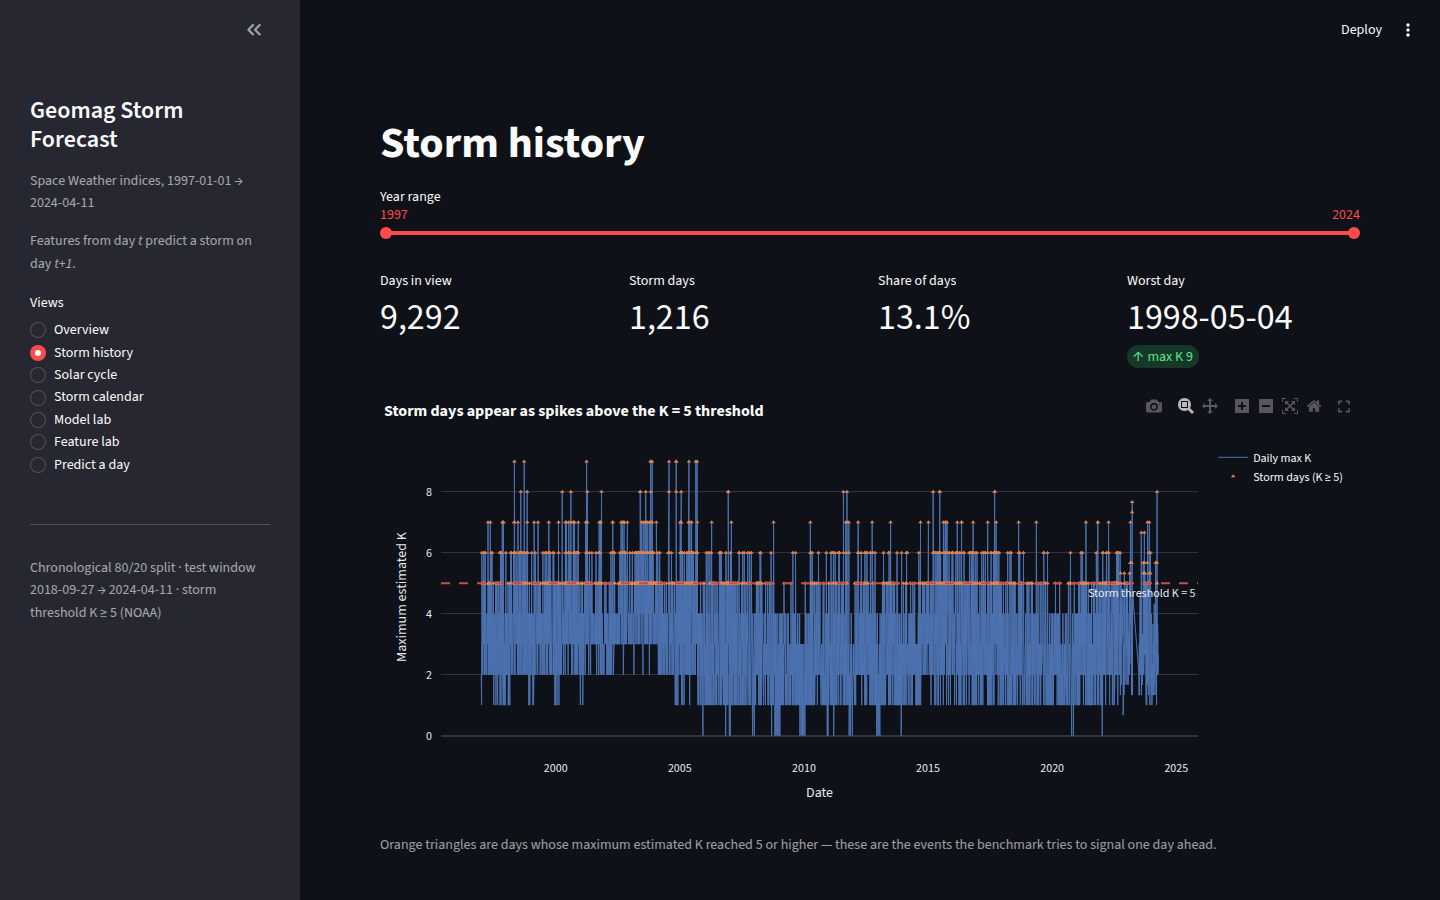
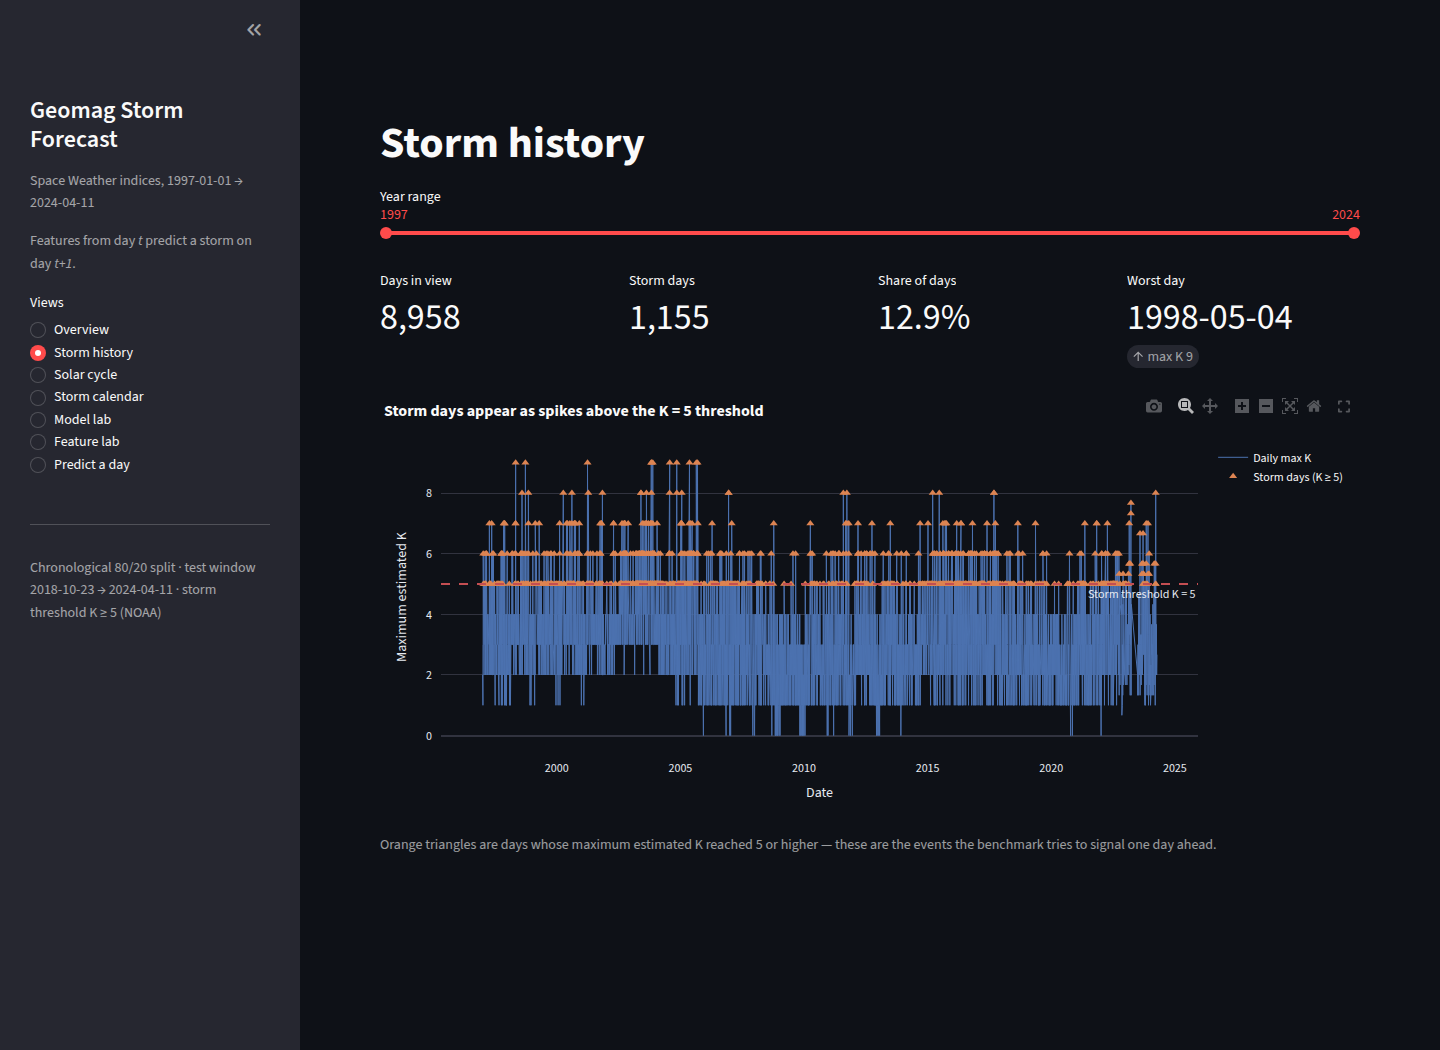
Fix label-gap bug and apply review findings
- Drop gap-adjacent rows before shift(-1) so labels never reach across
  data gaps (was labeling up to 92 days ahead; 334 rows affected)
- Guard dashboard against ValueError; neutral worst-day delta color
- Harden CI (SHA-pin actions, permissions: contents: read) and .gitignore
- Pin Python 3.12 via .python-version; correct sklearn version in README
- Enforce adjacency invariant in tests (20 passing); recapture docs PNGs

diff --git a/tests/test_pipeline_smoke.py b/tests/test_pipeline_smoke.py
@@ -2,6 +2,7 @@
 
 from __future__ import annotations
 
+import numpy as np
 import pandas as pd
 
 from geomag_forecast.config import DEFAULT_DATA_DIR, STORM_K_THRESHOLD
@@ -16,10 +17,10 @@ def test_full_pipeline_on_committed_data():
     feature_cols = leakage_audit(daily)
     train, test = chronological_split(daily)
 
-    # Coverage: 1997 → 2024, ~9.3k modeled days.
+    # Coverage: 1997 → 2024, ~9k modeled days.
     assert daily["date"].min().year == 1997
     assert daily["date"].max().year == 2024
-    assert 9_000 <= len(daily) <= 9_500
+    assert 8_800 <= len(daily) <= 9_200
     assert daily["date"].is_monotonic_increasing
 
     # Rare but not degenerate event rate.
@@ -36,6 +37,19 @@ def test_full_pipeline_on_committed_data():
     assert "next_day_max_k" not in feature_cols
     assert "date" not in feature_cols
     assert "gmag_k_max" in feature_cols
+
+    # Every surviving row has a true calendar-day t+1 that exists in both
+    # sources, and the label is taken from THAT day (gaps are dropped, never
+    # bridged to a later row).
+    gmag_daily = geomag.assign(date=geomag["Timestamp"].dt.normalize()).groupby("date")[
+        "Estimated K"
+    ].max()
+    solar_dates = pd.DatetimeIndex(solar["Date"].unique())
+    next_date = daily["date"] + pd.Timedelta(days=1)
+    assert next_date.isin(gmag_daily.index).all()
+    assert next_date.isin(solar_dates).all()
+    expected_k = gmag_daily.reindex(next_date).to_numpy()
+    np.testing.assert_allclose(daily["next_day_max_k"].to_numpy(), expected_k)
 
     # Storm labels agree with the threshold definition.
     observed = (daily["next_day_max_k"] >= STORM_K_THRESHOLD).astype(int)

diff --git a/tests/test_features.py b/tests/test_features.py
@@ -41,6 +41,27 @@ def test_build_daily_table_drops_days_without_solar_data(geomag_df, solar_df):
     ]
 
 
+def test_build_daily_table_never_labels_across_a_gap(geomag_df, solar_df):
+    """A missing middle day must not be bridged: Jan 2's label would come from
+    Jan 4 (t+3) if gaps were skipped — that row must be dropped instead."""
+    solar_subset = solar_df[solar_df["Date"] != pd.Timestamp("2020-01-03", tz="UTC")]
+    daily = build_daily_table(geomag_df, solar_subset)
+
+    # Jan 2's successor is Jan 4 (gap) → dropped; Jan 5 is last → dropped.
+    assert daily["date"].tolist() == [
+        pd.Timestamp("2020-01-01", tz="UTC"),
+        pd.Timestamp("2020-01-04", tz="UTC"),
+    ]
+    # Jan 1 keeps its true t+1 label (Jan 2's max K = 6 → storm).
+    jan1 = daily[daily["date"] == pd.Timestamp("2020-01-01", tz="UTC")].iloc[0]
+    assert jan1["next_day_max_k"] == 6
+    assert jan1["next_day_storm"] == 1
+    # Jan 4's true t+1 is Jan 5 (max K = 2 → calm).
+    jan4 = daily[daily["date"] == pd.Timestamp("2020-01-04", tz="UTC")].iloc[0]
+    assert jan4["next_day_max_k"] == 2
+    assert jan4["next_day_storm"] == 0
+
+
 def test_leakage_audit_excludes_future_columns(geomag_df, solar_df):
     daily = build_daily_table(geomag_df, solar_df)
     feature_cols = leakage_audit(daily)

diff --git a/dashboard.py b/dashboard.py
@@ -68,9 +68,9 @@ def run_pipeline() -> dict:
 
 try:
     RUN = run_pipeline()
-except FileNotFoundError as exc:
+except (FileNotFoundError, ValueError) as exc:
     st.error(
-        "The dataset is missing, so nothing can be loaded.\n\n"
+        "The dataset could not be loaded, so nothing can be shown.\n\n"
         f"{exc}\n\n"
         "Either restore the CSVs in `data/raw/` or re-fetch them with "
         "`./scripts/download_data.sh`, then refresh this page."
@@ -184,12 +184,14 @@ def storm_history() -> None:
             "Worst day",
             f"{worst['date'].date()}",
             delta=f"max K {worst['gmag_k_max']:.0f}",
+            delta_color="off",
         )
 
     st.plotly_chart(ch.storm_timeline(view), width="stretch")
     st.caption(
-        "Orange triangles are days whose maximum estimated K reached 5 or higher — "
-        "these are the events the benchmark tries to signal one day ahead."
+        f"Orange triangles are days whose maximum estimated K reached "
+        f"{STORM_K_THRESHOLD} or higher — these are the events the benchmark "
+        "tries to signal one day ahead."
     )
 
 

diff --git a/src/geomag_forecast/features.py b/src/geomag_forecast/features.py
@@ -40,7 +40,12 @@ def build_daily_table(geomag: pd.DataFrame, solar: pd.DataFrame) -> pd.DataFrame
         .sort_values("date")
         .reset_index(drop=True)
     )
+    # Label strictly from calendar day t+1. Where the merged series has a gap,
+    # the next row is a later day (up to months later), so the label would be
+    # wrong — those rows have no t+1 label and are dropped below.
+    successor_gap = daily["date"].shift(-1) - daily["date"]
     daily["next_day_max_k"] = daily["gmag_k_max"].shift(-1)
+    daily.loc[successor_gap != pd.Timedelta(days=1), "next_day_max_k"] = np.nan
     daily["next_day_storm"] = (daily["next_day_max_k"] >= STORM_K_THRESHOLD).astype("float")
     daily.loc[daily["next_day_max_k"].isna(), "next_day_storm"] = np.nan
     daily = daily.dropna(subset=["next_day_storm"]).copy()

diff --git a/src/geomag_forecast/charts.py b/src/geomag_forecast/charts.py
@@ -106,7 +106,7 @@ def storm_timeline(daily: pd.DataFrame) -> go.Figure:
             y=storms["gmag_k_max"],
             mode="markers",
             name=f"Storm days (K ≥ {STORM_K_THRESHOLD})",
-            marker={"color": ORANGE, "size": 4, "symbol": "triangle-up"},
+            marker={"color": ORANGE, "size": 7, "symbol": "triangle-up"},
             hovertemplate="%{x|%Y-%m-%d}<br>max K: %{y:.1f}<extra></extra>",
         )
     )

diff --git a/README.md b/README.md
@@ -24,7 +24,7 @@ Coverage: 1997-01-01 → 2024-04-12. The source uses `*` (and `-1` in documentat
 
 1. **Discover & validate** — recursive CSV discovery (works under `/kaggle/input` on Kaggle too), schema assertions, date parsing, duplicate-timestamp and chronology checks, sentinel conversion.
 2. **Aggregate** — one row per UTC day: max/mean/std of estimated K, A-index stats, observation counts, mid/high-latitude K maxima, joined with same-day solar indicators.
-3. **Target** — `next_day_storm = 1` when the following day's maximum estimated K is ≥ 5 (NOAA: K = 5 or higher indicates storm conditions). The final day is dropped because its future label is unavailable.
+3. **Target** — `next_day_storm = 1` when the following day's maximum estimated K is ≥ 5 (NOAA: K = 5 or higher indicates storm conditions). The final day is dropped because its future label is unavailable, and days whose t+1 is missing from the merged series (data gaps) are dropped rather than labeled from a later day.
 4. **Leakage audit** — `next_day_max_k` / `next_day_storm` are excluded from the feature list; an audit table prints feature dates vs. target dates.
 5. **Chronological split** — earliest 80% of dates for training, latest 20% as an untouched test set (no shuffling: nearby days belong to the same space-weather regime).
 6. **Models** — a persistence baseline (today's K ≥ 5), logistic regression, and histogram gradient boosting, all with median imputation inside the pipeline and `class_weight="balanced"` for the rare-event setting.
@@ -106,7 +106,7 @@ uv run streamlit run dashboard.py
 
 ```bash
 uv sync --group dev
-uv run pytest          # 19 tests: target construction, leakage, split, charts, smoke
+uv run pytest          # 20 tests: target construction, leakage, split, charts, smoke
 uv run ruff check .
 ```
 
@@ -114,19 +114,19 @@ The suite covers next-day target construction and the NOAA threshold boundary, t
 
 ## Reference results
 
-Reported by the original notebook run (data through 2024-04-11; test window 2018-09-27 → 2024-04-11, storm rate 8.23%):
+From `uv run forecast` in this repo (Python 3.12 / scikit-learn 1.9.1, pinned via `.python-version` and `uv.lock`; data through 2024-04-11; test window 2018-10-23 → 2024-04-11, storm rate 8.20%):
 
 | Model | Avg. precision | ROC AUC | Balanced acc. | Precision | Recall | F1 |
 | --- | --- | --- | --- | --- | --- | --- |
-| Logistic regression | **0.270** | 0.734 | 0.679 | 0.212 | 0.536 | 0.304 |
-| Histogram gradient boosting | 0.229 | 0.708 | 0.648 | 0.207 | 0.451 | 0.284 |
-| Persistence baseline | 0.159 | 0.630 | 0.630 | 0.320 | 0.320 | 0.320 |
+| Logistic regression | **0.279** | 0.743 | 0.681 | 0.215 | 0.537 | 0.307 |
+| Histogram gradient boosting | 0.244 | 0.710 | 0.657 | 0.212 | 0.469 | 0.292 |
+| Persistence baseline | 0.163 | 0.634 | 0.634 | 0.331 | 0.327 | 0.329 |
 
-Top permutation importances (logistic regression): `gmag_k_mean` (0.089), `gmag_k_std` (0.028), `Radio Flux 10.7cm` (0.015), `mid_k_max` (0.012).
+Top permutation importances (logistic regression): `gmag_k_mean` (0.082), `gmag_k_std` (0.027), `Radio Flux 10.7cm` (0.011), `mid_k_max` (0.008).
 
-Storm prevalence in the model table: 13.09% (8,076 calm / 1,216 storm days).
+Storm prevalence in the model table: 13.11% (7,784 calm / 1,174 storm days).
 
-> Logistic regression, the persistence baseline, the classification report, and the permutation importances reproduce exactly. Histogram gradient boosting can vary slightly across scikit-learn versions: the locked environment in `uv.lock` (scikit-learn 1.7.2) yields AP 0.236 versus 0.229 in the table above; `uv run forecast` regenerates `outputs/results.csv` for whatever environment you run.
+> **Note on label correctness.** The original notebook assigned the next-day label to the *next row* after the daily join, silently bridging data gaps — 334 rows (3.6%) were labeled from later days, up to 92 days ahead — and its own adjacency check was disabled. This port verifies that t+1 is the true next calendar day and drops gap-adjacent rows instead (this is why the numbers above differ slightly from the notebook's, e.g. its logistic-regression AP of 0.270). `uv run forecast` regenerates `outputs/results.csv` for your environment.
 
 ## Limitations
 
